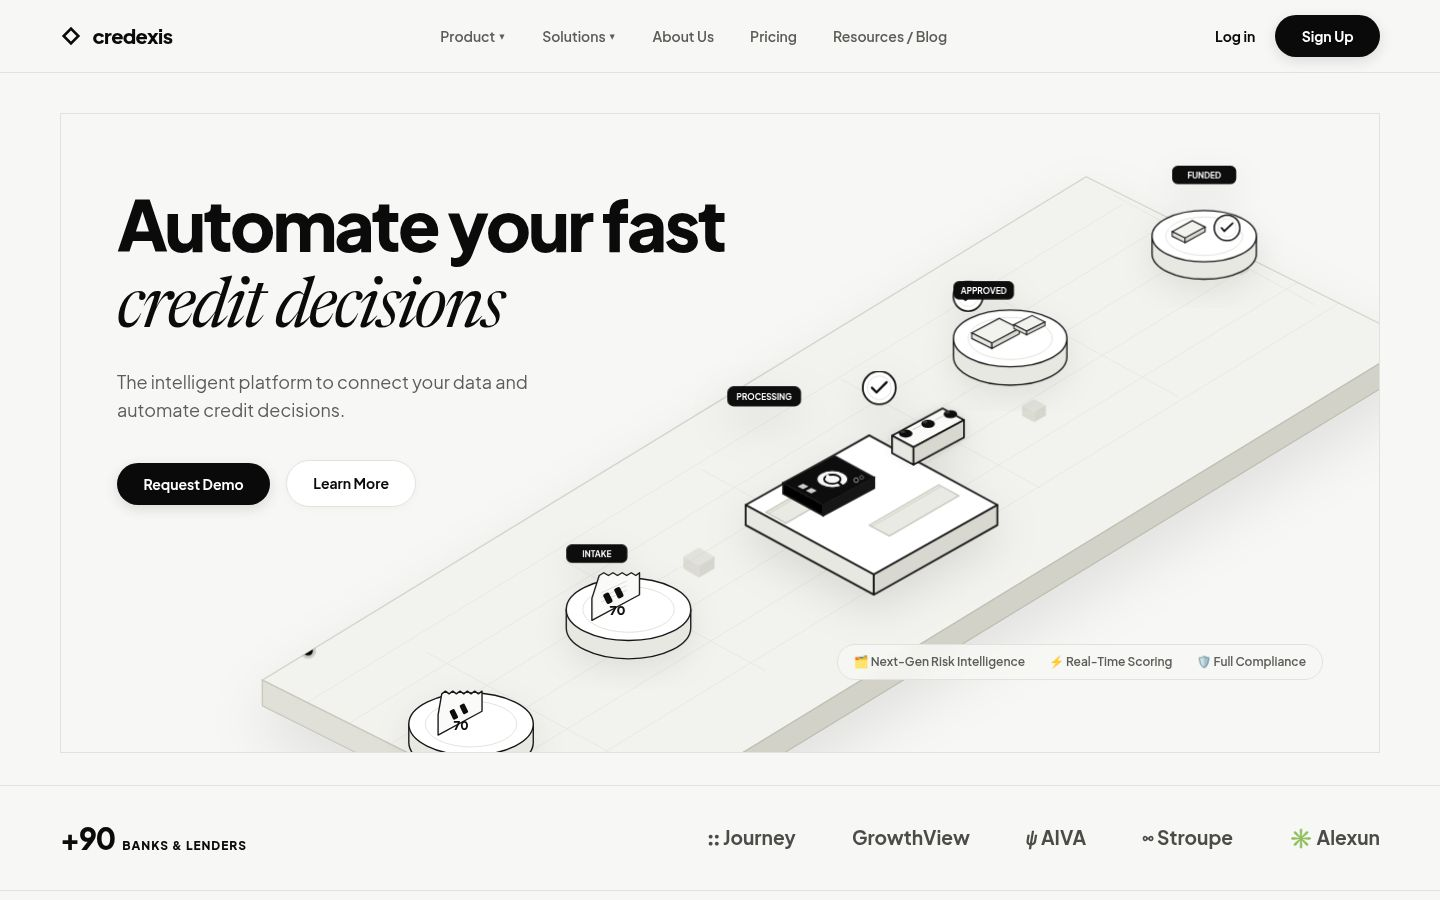
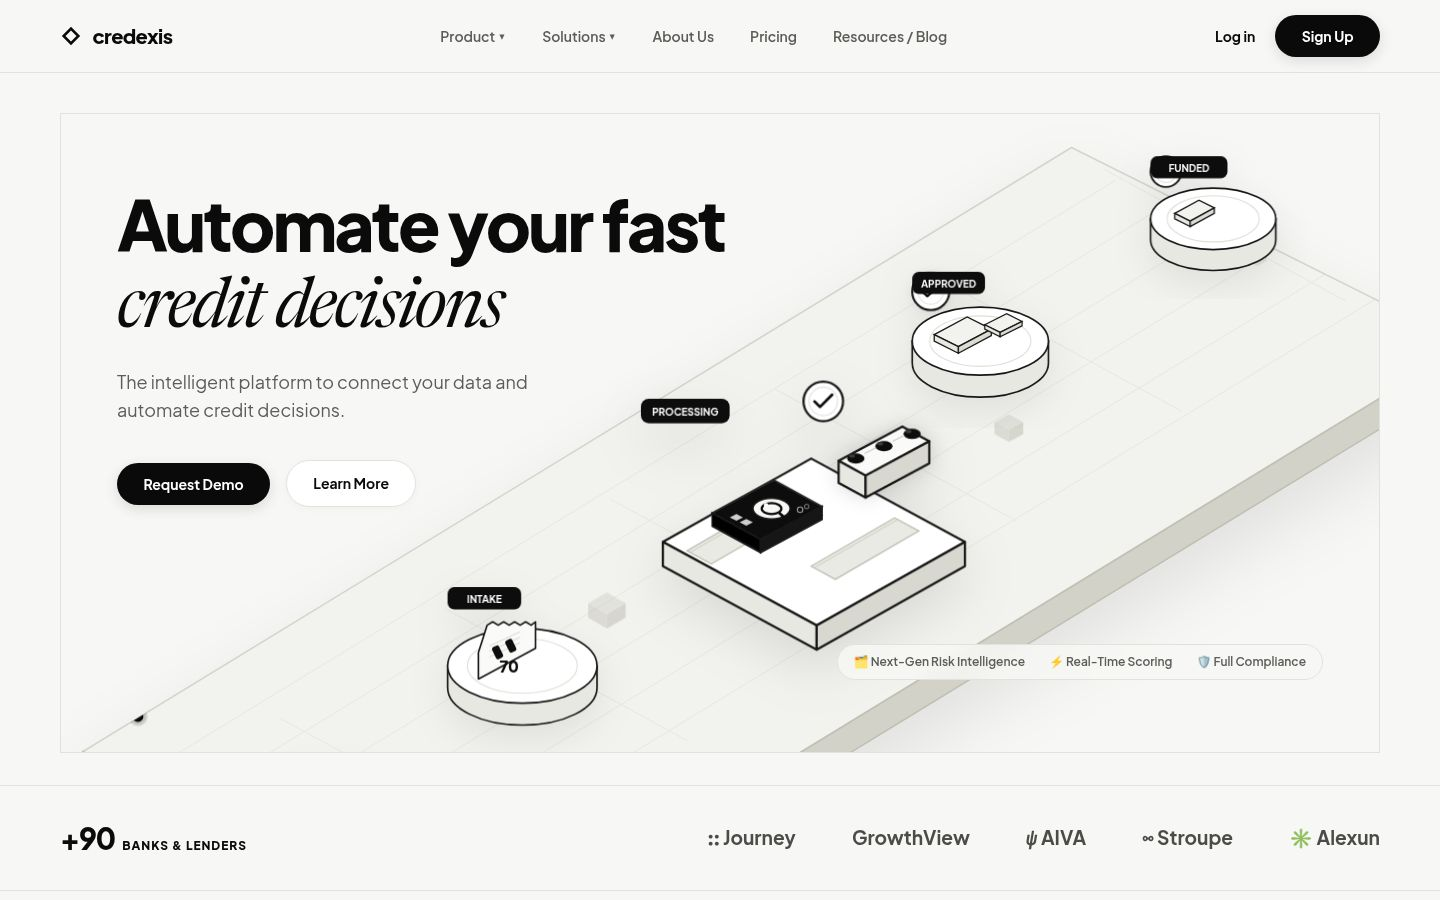
credexis: fix hero SVG viewBox — all stations contained within hero bounds
Adjusted viewBox from '0 0 1440 680' → '200 40 1200 560' to:
- Crop the overflowing Station 0 bleed at bottom-left
- Eliminate empty left-side dead space
- Scale illustration up within the 640px hero height
- All 4 stations (INTAKE/PROCESSING/APPROVED/FUNDED) fully visible

diff --git a/library/websites/credexis/index.html b/library/websites/credexis/index.html
@@ -1200,7 +1200,7 @@
 
 
           <!-- Hero Full Canvas SVG: Continuous Diagonal Conveyor Track & Stations -->
-          <svg class="hero-svg-overlay" viewBox="0 0 1440 680" fill="none" xmlns="http://www.w3.org/2000/svg" preserveAspectRatio="xMidYMid meet">
+          <svg class="hero-svg-overlay" viewBox="200 40 1200 560" fill="none" xmlns="http://www.w3.org/2000/svg" preserveAspectRatio="xMidYMid meet">
             <defs>
               <!-- Drop shadows -->
               <filter id="heroShadow" x="-20%" y="-20%" width="140%" height="140%">
